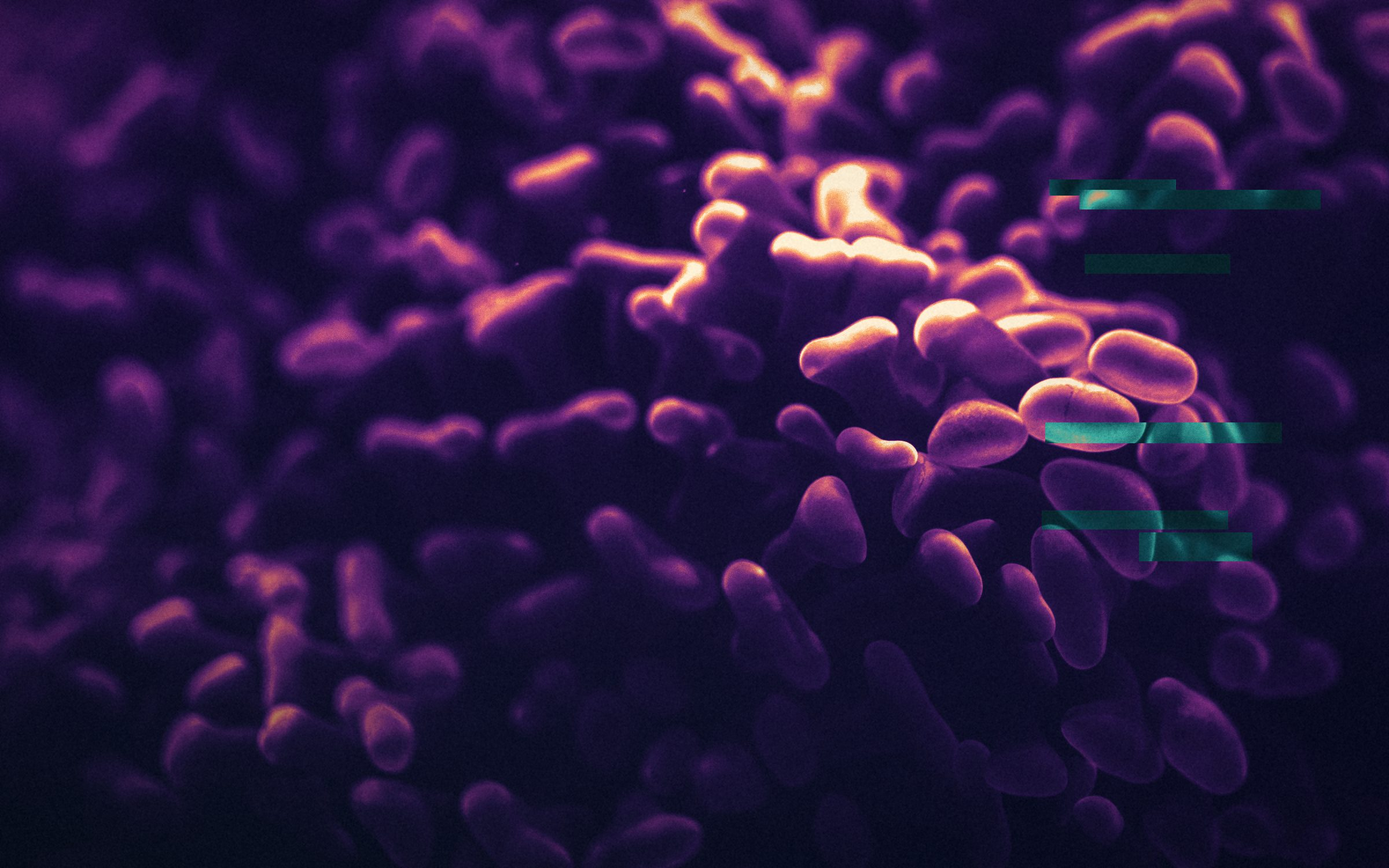
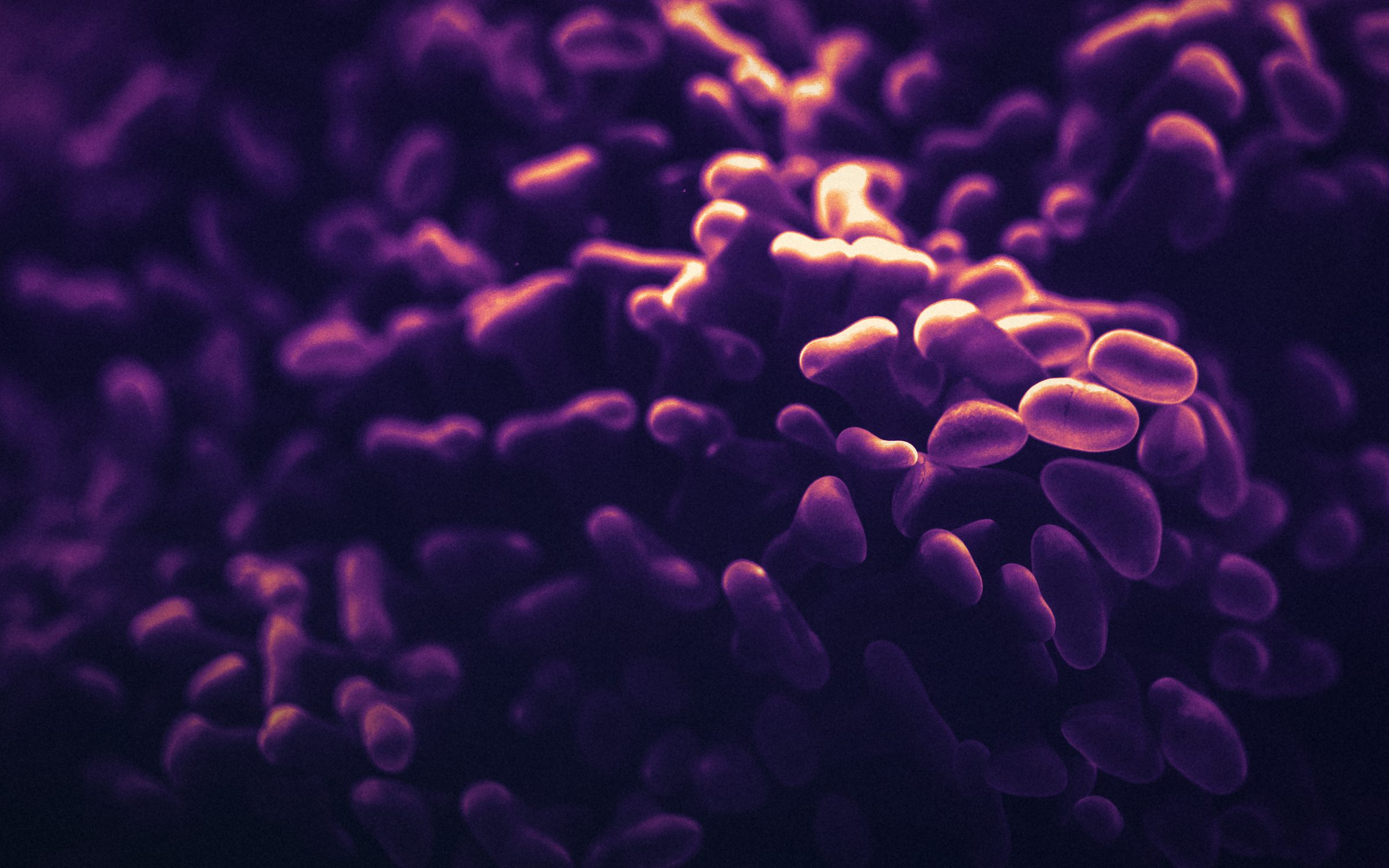
Design review round 2 fixes
- Numbers stay with their units in headings, intros, cards and bands; a few
  headlines keep short last words with their neighbours
- Who we are: square crew panels with big initials; on phones one column of
  rows with the role beside each portrait; even gaps around the crew
- Home: plain white wordmark over the video; level, shorter Featured panels
  while all their photos are still to come; bigger news titles; the
  radiolarian keeps a small caption on phones; the Turtle drawing shows only
  its side view on phones; a taller fish strip on phones
- Photo bands carry no glitch slices; the page header slices stay clear of
  the menu and the caption tag
- The Problem: depth notes at full strength and smaller titles on phones,
  so the notes never touch; no vehicle label over the cable on phones;
  a deeper shade under the Flower Garden Banks artwork
- Work with us: no small inset right under the header
- Donate: one cyan inset with a hairline instead of two overlapping photos
- Positions: role details side by side on phones; long page headlines a
  size down so the headers keep the same shape
- Tags break before a dot, never after it; soon tags stay with their names;
  bigger map labels on phones; lowercase finance email

Claude-Session: https://claude.ai/code/session_01HPvjW6KZMfatoVEK835rkc

diff --git a/src/lib/text.ts b/src/lib/text.ts
@@ -1,9 +1,9 @@
 // Small text helpers for the [ bracket ] tags.
 
-// Glues each " · " separator to the word before it (with a no-break space), so when a tag wraps
-// onto a second line on a phone, the line breaks after a dot instead of starting with one:
-// "Research · Conservation · Fisheries" -> "Research ·" / "Conservation · Fisheries"
-export const keepDots = (text: string) => text.replaceAll(' · ', '\u00a0· ');
+// Glues each " · " separator to the word after it (with a no-break space), so when a tag wraps
+// onto a second line on a phone, no line ends on a dangling dot; the next line starts with it:
+// "Research · Conservation · Fisheries" -> "Research · Conservation" / "· Fisheries"
+export const keepDots = (text: string) => text.replaceAll(' · ', ' ·\u00a0');
 
 // Glues a number to its unit with a no-break space, so "200 m" never splits across two lines:
 // "below 200 m" -> "below 200 m" (the space before "m" can't break)

diff --git a/src/data/team.ts b/src/data/team.ts
@@ -79,7 +79,7 @@ export const team: TeamMember[] = [
 // on the Who we are page, after the first row of people. Words between ** and ** get a coloured box.
 export const teamStatement = {
   tag: 'What we share',
-  headline: 'Many disciplines, **one vehicle**, one question: **what lives down there?**',
+  headline: 'Many disciplines, **one vehicle**, one\u00a0question: **what lives down\u00a0there?**', // no-break spaces keep "question:" and "there?" off lines of their own
   text: "None of us could build Turtle alone. Every part depends on another, and nothing counts until it all works together in the water. So we design, build and test as one team, a step at a time on the way from the pool to the reef. That's how a group of students gets to see a part of the ocean that is barely watched.",
   signoff: 'The Talosaur team',
 };

diff --git a/src/data/problem.ts b/src/data/problem.ts
@@ -142,7 +142,7 @@ export const reasons = [
   },
   {
     depth: 136,
-    title: 'Too expensive to visit often.',
+    title: 'Too expensive to visit\u00a0often.', // no-break space: "often." never sits alone
     text: 'Remotely operated vehicles need pilots and boats, commercial underwater robots cost $50,000 to over $1 million, and ship time costs tens of thousands of dollars a day.',
     fact: '',
     sources: [sources.robots, sources.ship],

diff --git a/src/data/positions.ts b/src/data/positions.ts
@@ -17,7 +17,7 @@ export const positions = [
     skills: 'C/C++, Arduino or ESP32',
   },
   {
-    title: 'Computer Vision / ML Engineer',
+    title: 'Computer Vision\u00a0/ ML Engineer', // no-break space: the line never starts with "/"
     whatYoullDo: 'Help the robot spot and track marine animals in video',
     skills: 'Python, PyTorch, OpenCV',
   },

diff --git a/README.md b/README.md
@@ -118,7 +118,7 @@ Swap any of these for real team photos whenever you have them.
 |---|---|---|
 | `radiolarian.webp` | Home, Section 04, running off the right edge behind the cards | A radiolarian (plankton) from the 1887 HMS Challenger plates: neon lime lines on a violet shell, magenta inside. Transparent background. Placed with `src/components/Specimen.astro` |
 | `sonar.jpg` | Home, Section 06, behind Latest news | NOAA sonar data of the seafloor, recoloured violet, teal and magenta and kept dark so the news reads on top |
-| `jelly.jpg` (and `sections/contact-inset.jpg`) | Work with us, beside the contact details | Collage: a jellyfish in magenta and orange, a lime block with a notch behind it, an orange dot and a small sand tiger shark in lime on violet (Pexels), edited like the jellyfish so the two match |
+| `jelly.jpg` | Work with us, beside the contact details | A jellyfish in magenta and orange, with a lime block with a notch behind it and an orange dot on its corner |
 
 The three ways to help on Donate sit on plain colour blocks (orange, lime, violet) with their number in big thin type, not photos: a picture of an unrelated animal would suggest the wrong thing. The accent colours used in these edits (lime, orange, violet, magenta) are CSS variables in `src/styles/global.css` (`--color-lime` and so on), so the colour blocks and dots on the page match the pictures. To replace one, keep the same file name and size (and the transparent background for the `.webp`).
 
